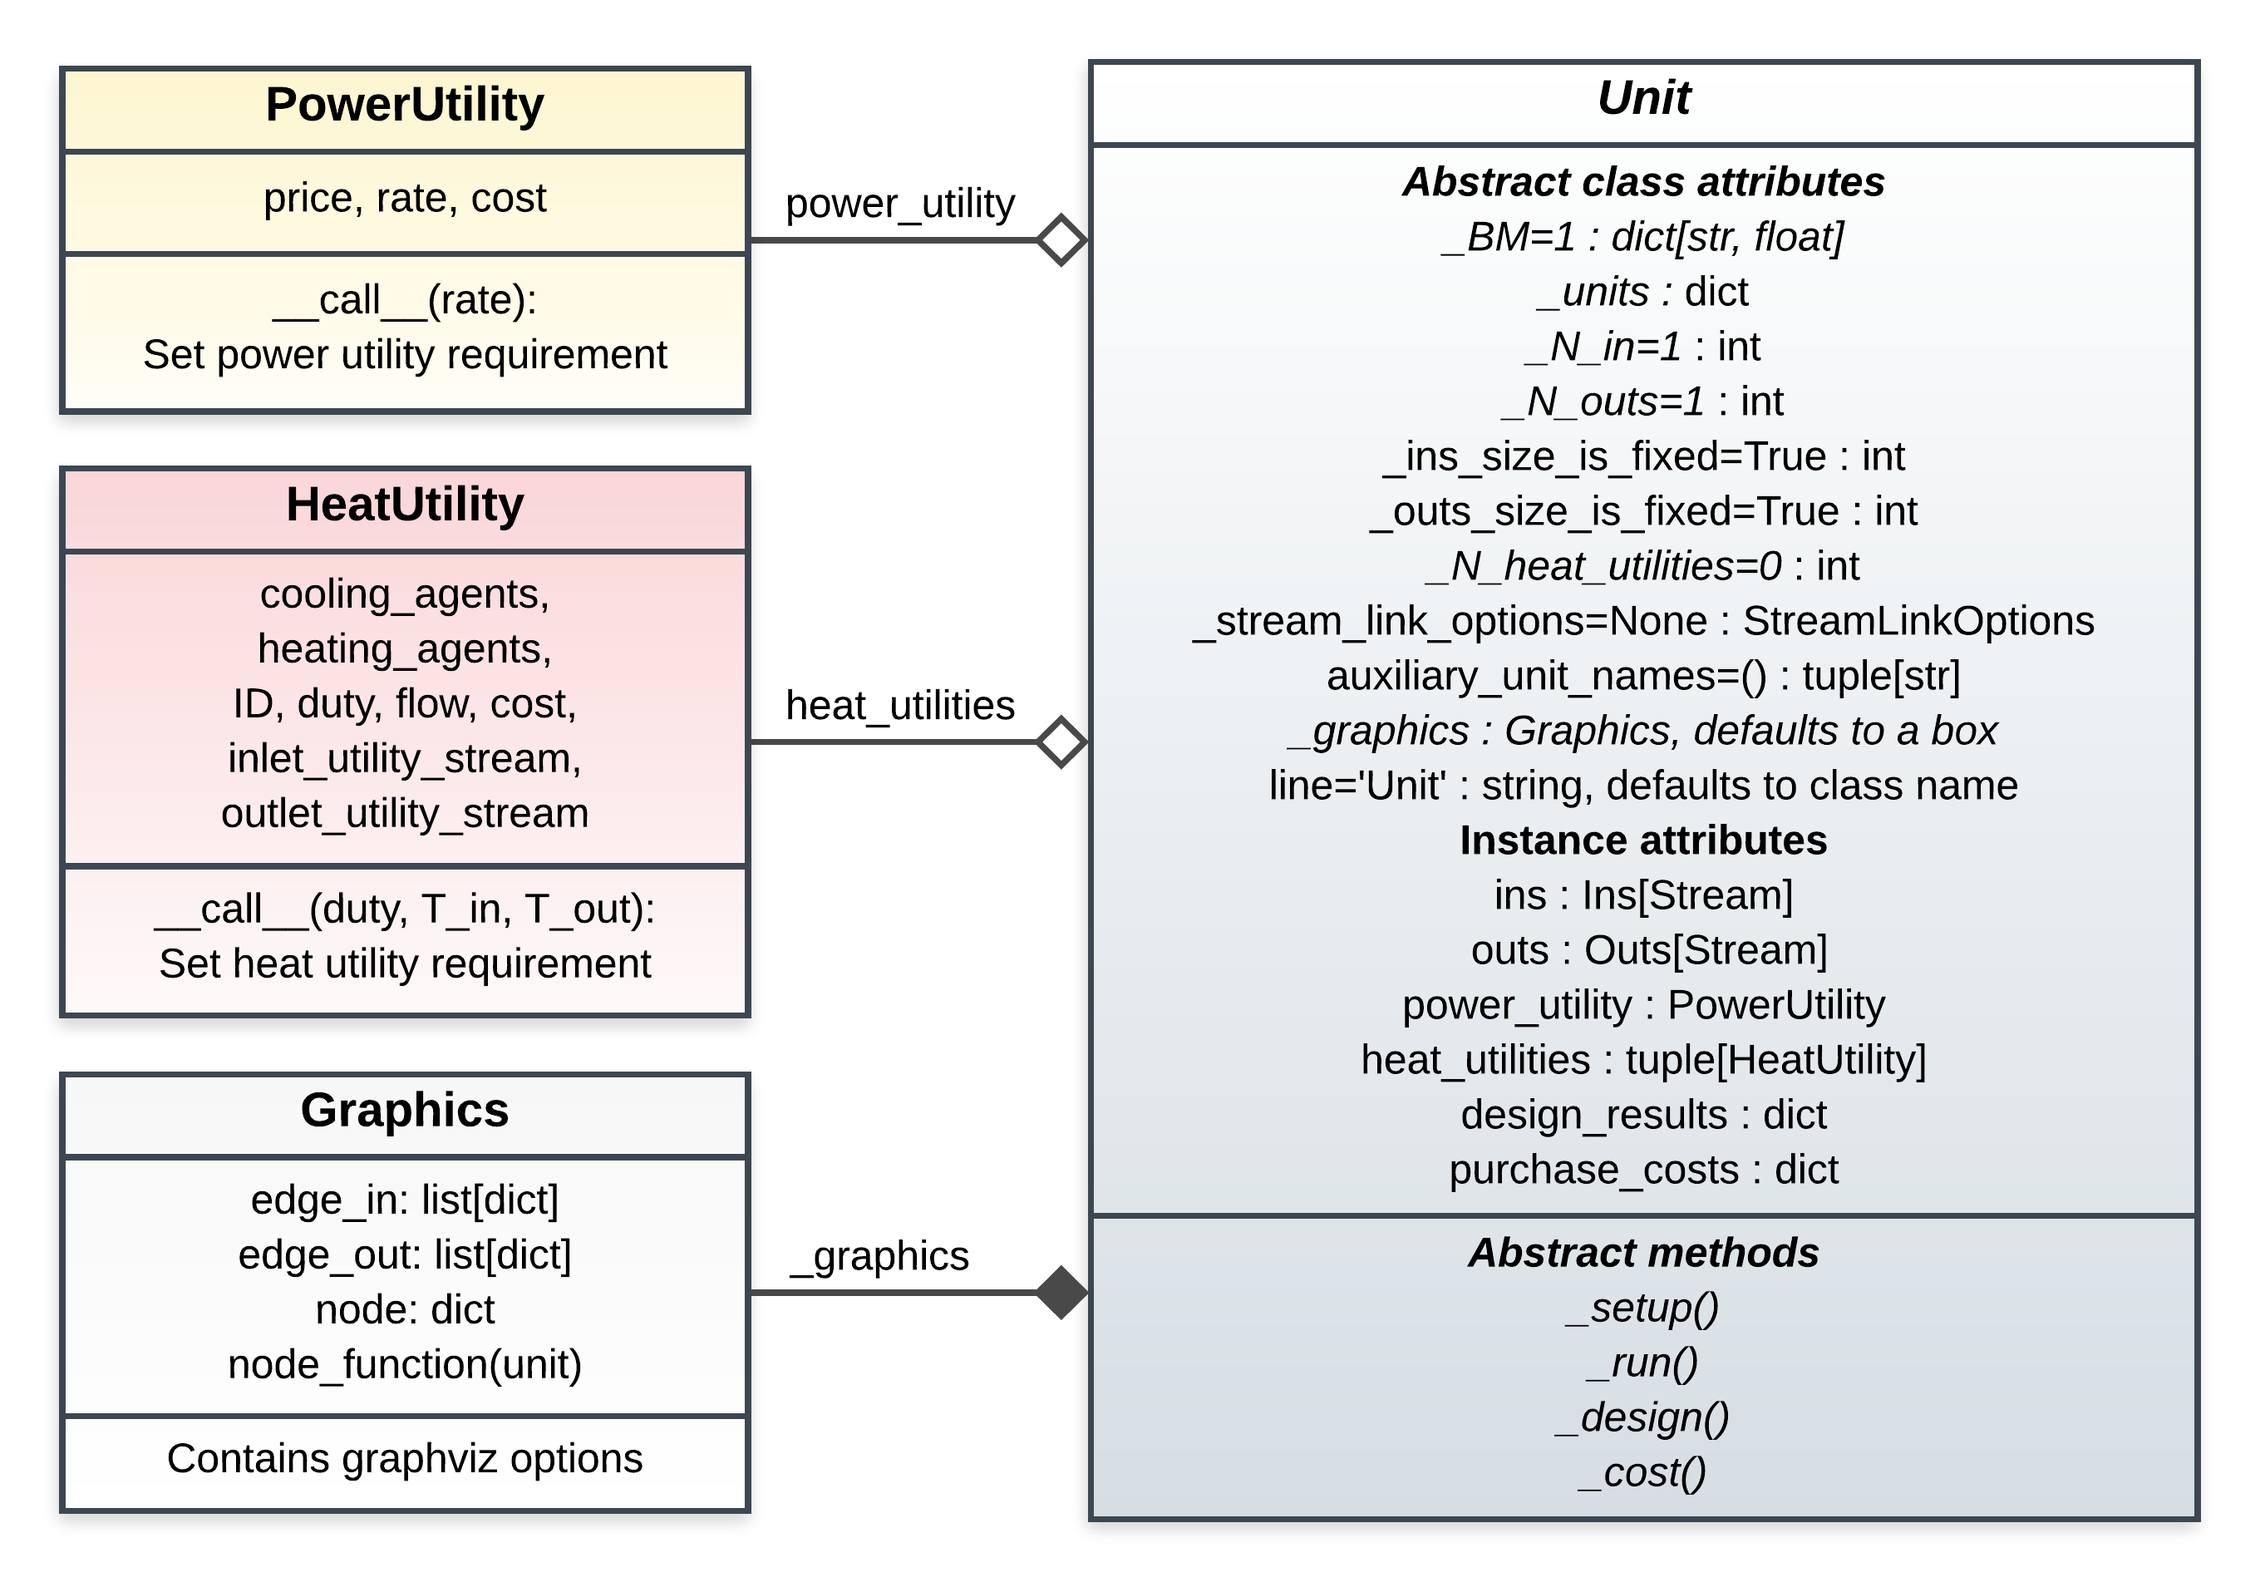
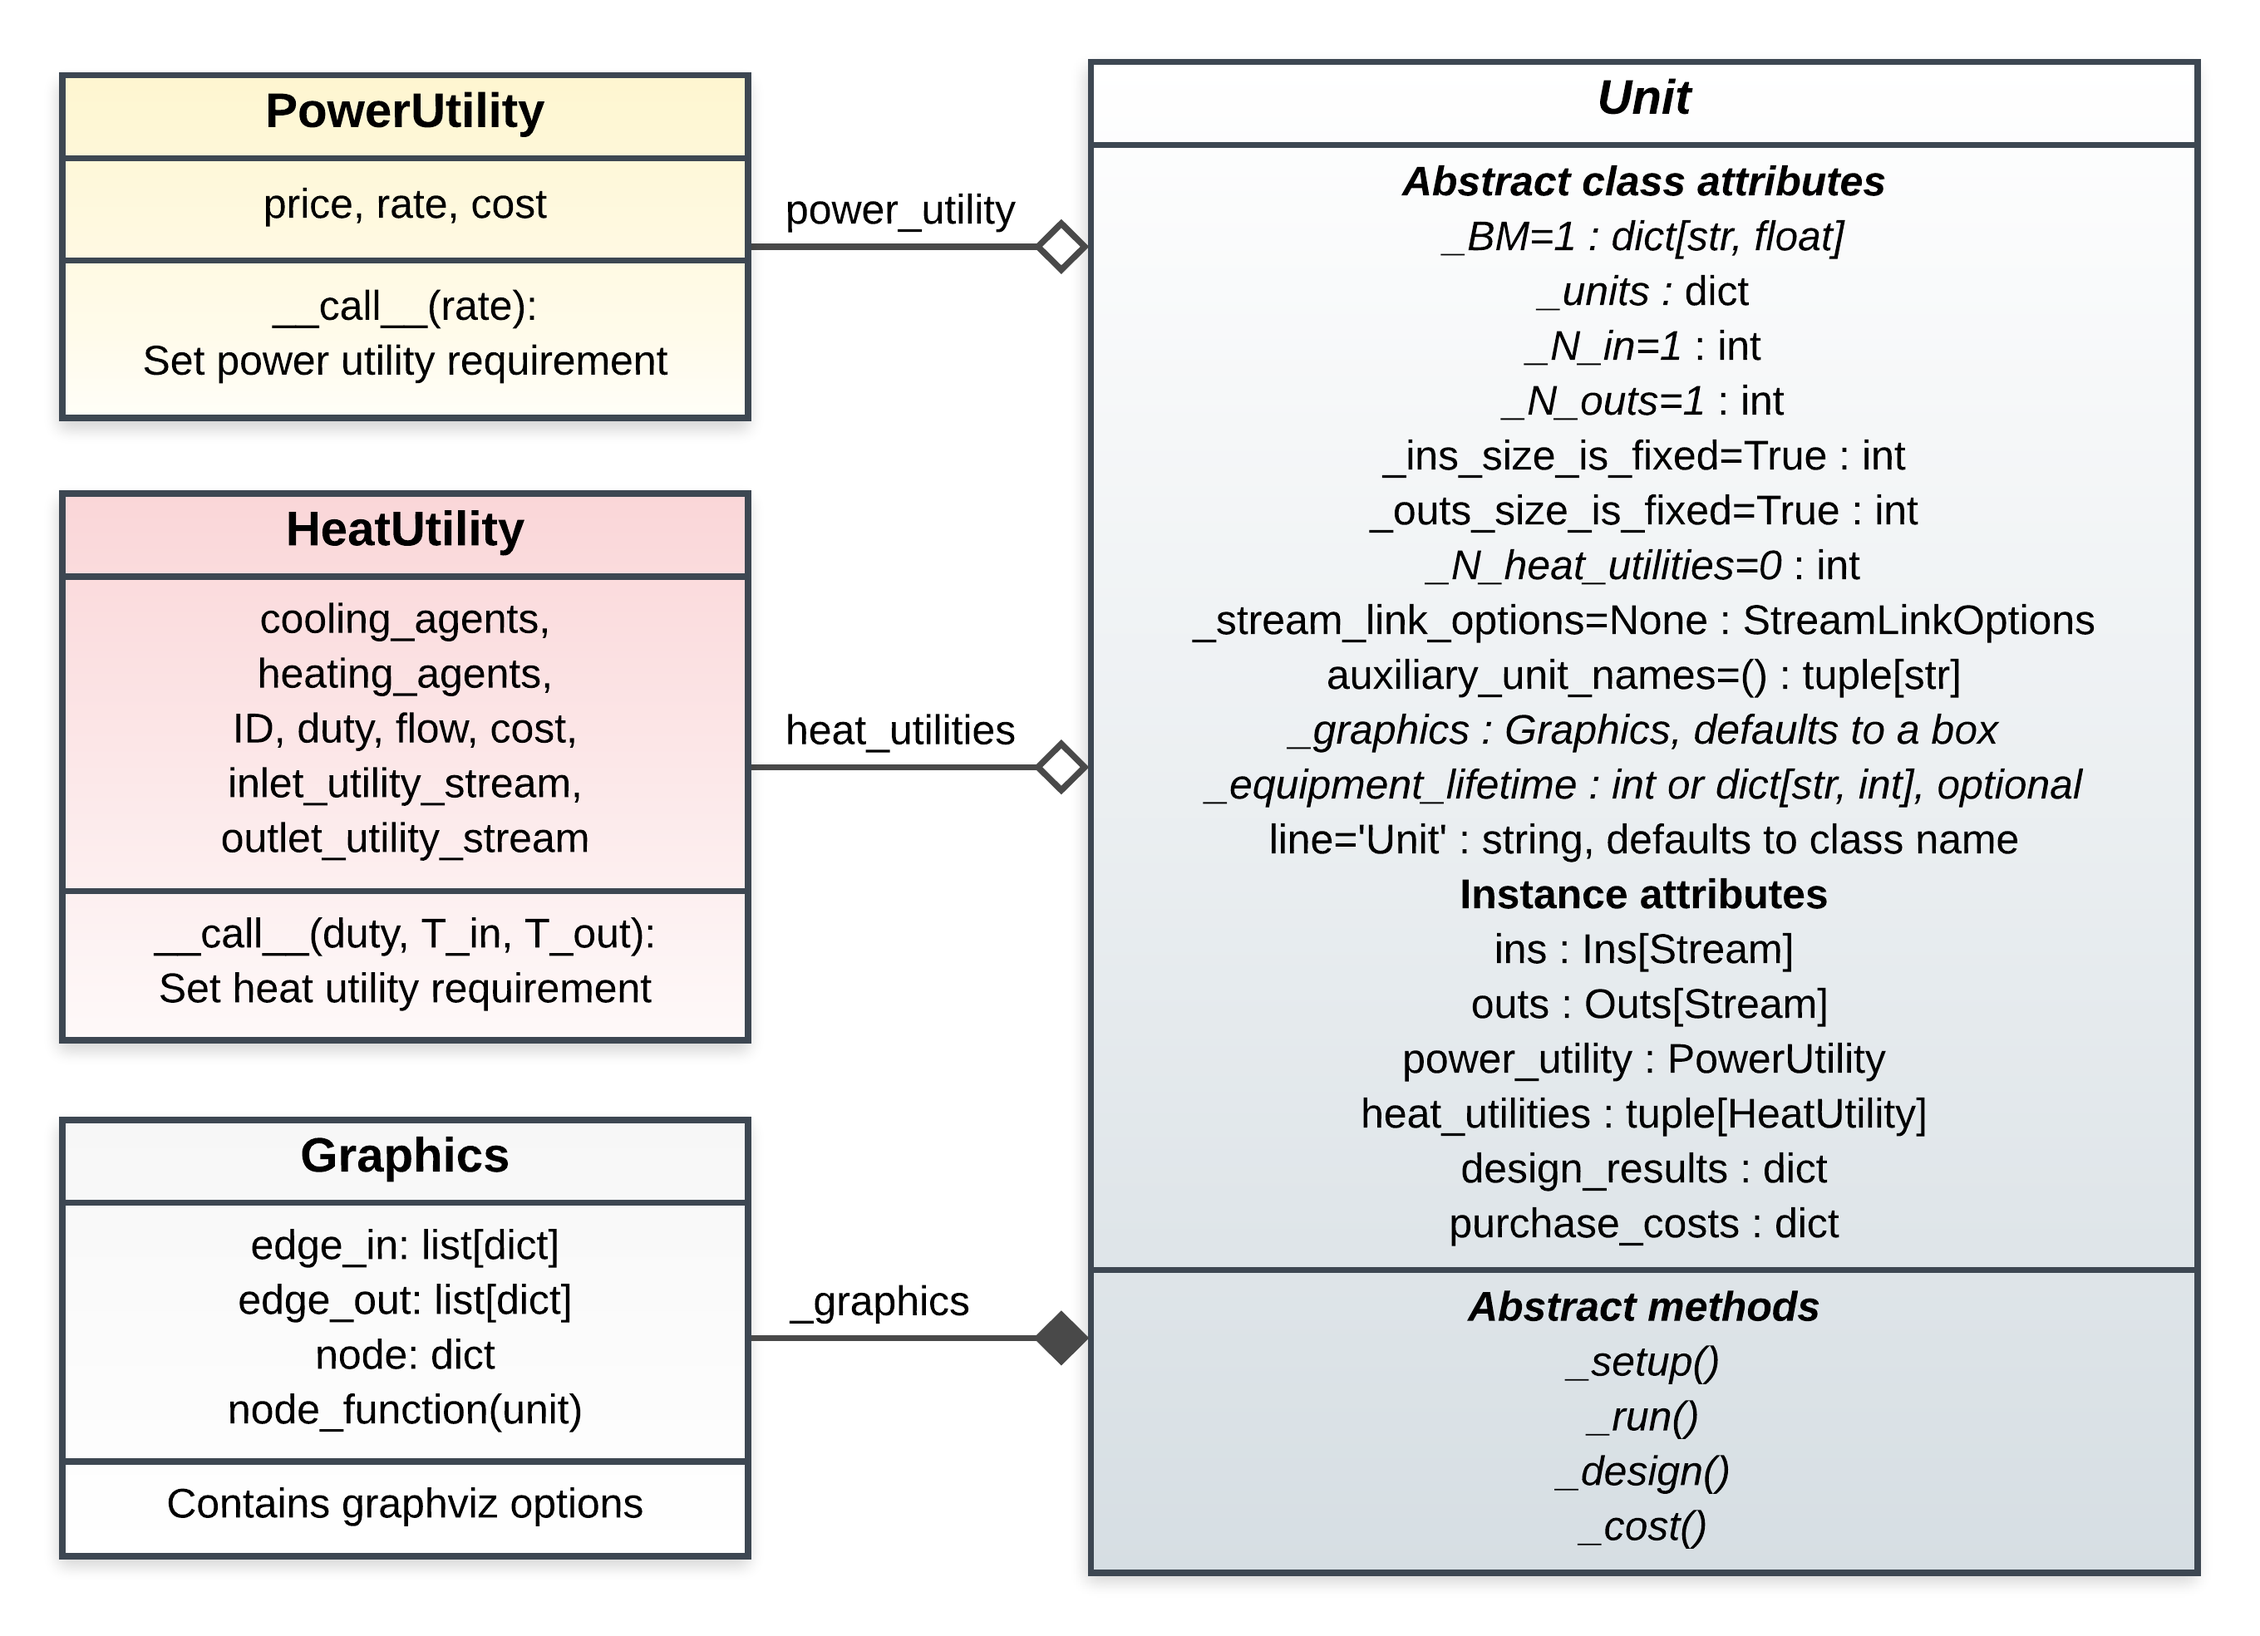
update documentation and version for equipment lifetime feature

diff --git a/setup.py b/setup.py
@@ -11,7 +11,7 @@ setup(
     name='biosteam',
     packages=['biosteam'],
     license='MIT',
-    version='2.22.6',
+    version='2.22.7',
     description='The Biorefinery Simulation and Techno-Economic Analysis Modules',
     long_description=open('README.rst').read(),
     author='Yoel Cortes-Pena',

diff --git a/biosteam/__init__.py b/biosteam/__init__.py
@@ -8,7 +8,7 @@
 """
 """
 
-__version__ = '2.22.6'
+__version__ = '2.22.7'
 
 #: Chemical engineering plant cost index (defaults to 567.5 at 2017).
 CE = 567.5 
